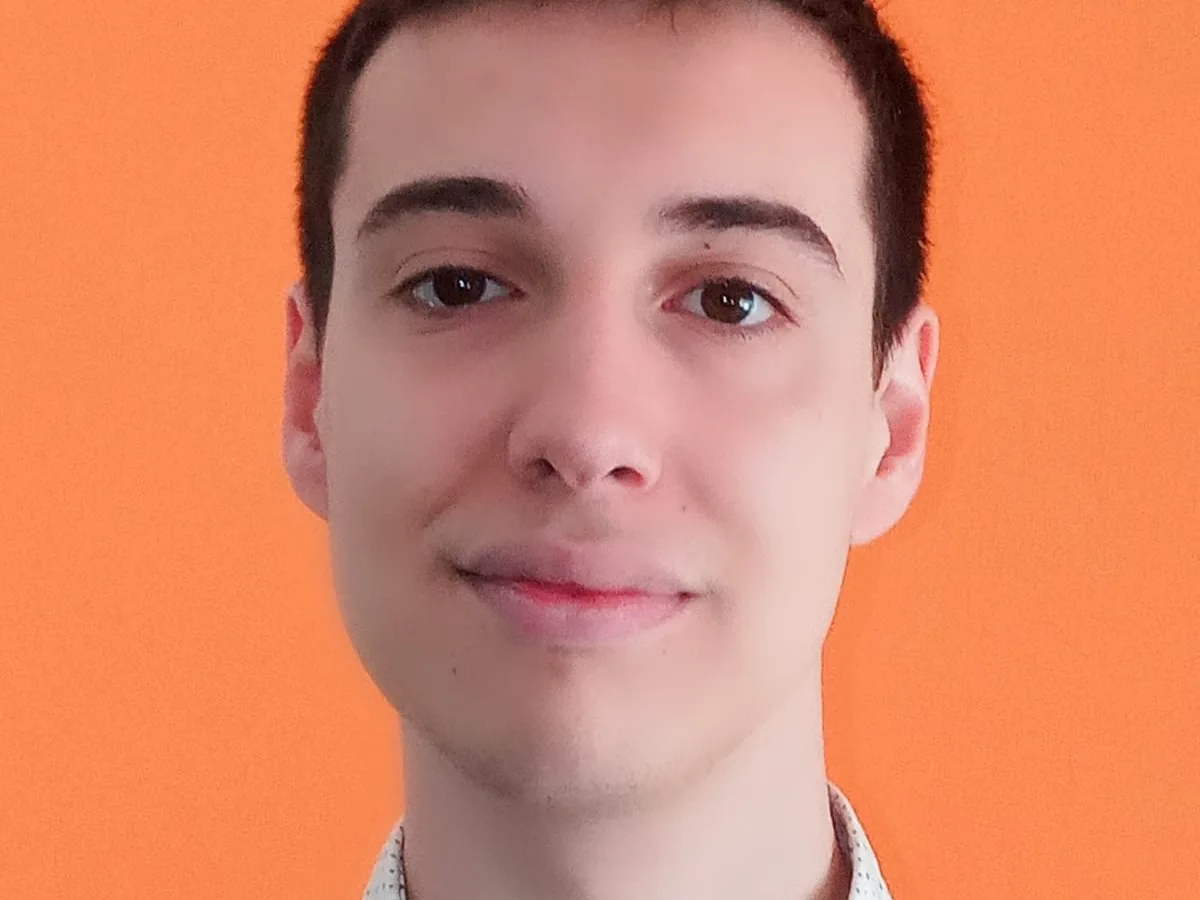
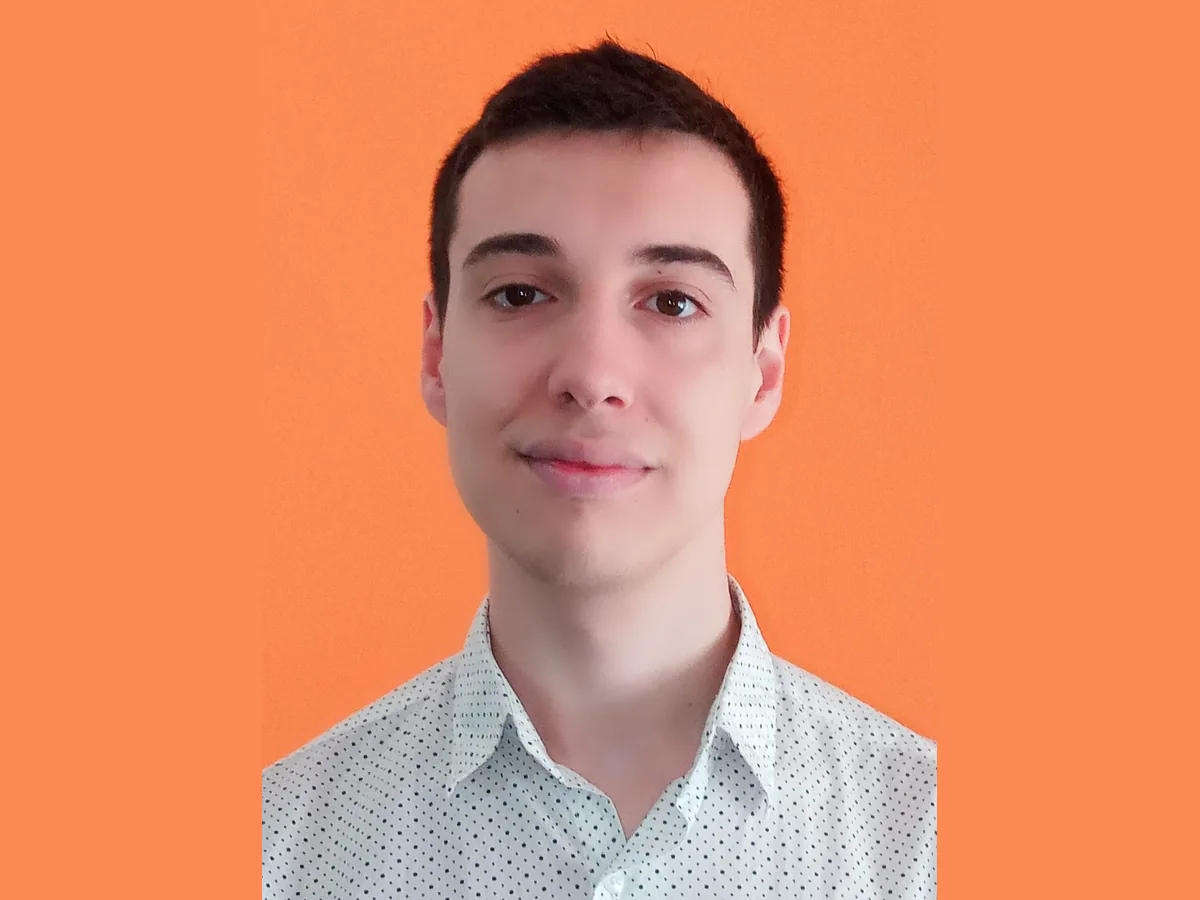
docs: correct phase 2 wide portrait asset

diff --git a/docs/design/phase-2/tests/validate-assets.py b/docs/design/phase-2/tests/validate-assets.py
@@ -38,6 +38,11 @@ def main() -> None:
             assert image.format == "WEBP", f"Image is not WEBP: {name}"
             assert image.size == dimensions, f"Unexpected dimensions for {name}: {image.size}"
             assert not image.getexif(), f"EXIF metadata remains in {name}"
+            if name == "profile-wide.webp":
+                red, green, blue = image.convert("RGB").getpixel((600, 0))
+                assert (
+                    red >= 200 and red > green + 50 and green > blue + 20
+                ), "Wide asset must preserve an orange background above the uncropped portrait"
     for name in EXPECTED_FONTS:
         path = FONTS / name
         assert path.is_file(), f"Missing font or license asset: {path.relative_to(ROOT)}"

diff --git a/docs/prototypes/phase-2/tools/build-assets.py b/docs/prototypes/phase-2/tools/build-assets.py
@@ -15,9 +15,9 @@ def main() -> None:
         portrait = ImageOps.fit(
             image, (900, 1200), Image.Resampling.LANCZOS, centering=(0.5, 0.42)
         )
-        wide = ImageOps.fit(
-            image, (1200, 900), Image.Resampling.LANCZOS, centering=(0.5, 0.34)
-        )
+        wide = Image.new("RGB", (1200, 900), image.getpixel((0, 0)))
+        contained = ImageOps.contain(image, wide.size, Image.Resampling.LANCZOS)
+        wide.paste(contained, ((wide.width - contained.width) // 2, 0))
         portrait.save(OUTPUT / "profile-portrait.webp", "WEBP", quality=82, method=6)
         wide.save(OUTPUT / "profile-wide.webp", "WEBP", quality=82, method=6)
 

diff --git a/docs/prototypes/phase-2/assets/ASSET_MANIFEST.md b/docs/prototypes/phase-2/assets/ASSET_MANIFEST.md
@@ -2,19 +2,19 @@
 
 ## Source and derivation contract
 
-- Approved source: `docs/content/approved-assets/professional-photo.jpg` (`SRC-010`).
+- Approved future-publication source: `docs/content/approved-assets/professional-photo.jpg` (`SRC-010`); it is not publicly served by this repository.
 - Source dimensions and format: 1200 × 1600 JPEG.
[1 lines of base64/hex data omitted]
 - Builder: `docs/prototypes/phase-2/tools/build-assets.py`, using Pillow `ImageOps.fit`, RGB conversion, Lanczos resampling, WebP `quality=82`, and `method=6`.
-- Final portrait centering: `(0.5, 0.42)`; final wide centering: `(0.5, 0.34)`.
+- Final portrait centering: `(0.5, 0.42)`. The 1200 × 900 wide derivative centers a height-contained, uncropped copy of the entire approved portrait on the sampled orange pixel at source coordinate `(0, 0)`; it preserves the hair, shoulders, and collar without fabricating visual content.
 - The derivation creates no new generated visual content and does not alter the approved source.
-- Both derivatives were checked after generation: no EXIF metadata remains. The orange background is preserved, the subject is not stretched, and the face remains recognizable; the portrait retains the complete head-and-shoulders composition. The wider responsive crop prioritizes the approved face composition within its required 4:3 ratio.
+- Both derivatives were checked after generation: no EXIF metadata remains. The orange background is preserved, the subject is not stretched, and the face remains recognizable; the portrait retains the complete head-and-shoulders composition. The wider responsive composition preserves the entire source portrait within its required 4:3 ratio.
 
 ## Accessibility and confidentiality review
 
 - Spanish alt text: `Retrato profesional de Luciano González sobre fondo naranja`.
 - English alt text: `Professional portrait of Luciano González against an orange background`.
-- Review result: the two derivatives originate only from approved public asset `SRC-010`; no new claims, identifiers, confidential employer/client details, or generated imagery were introduced. EXIF metadata was removed. They remain prototype-local assets and are not a public CMS/media publication action.
+- Review result: the two derivatives originate only from approved future-publication asset `SRC-010`; no new claims, identifiers, confidential employer/client details, or generated imagery were introduced. EXIF metadata was removed. They remain prototype-local assets and are not a public CMS/media publication action.
 - Integration follow-up: verify crop harmony and surrounding UI contrast in both themes before future publication, as required by `docs/content/ASSET_INVENTORY.md`.
 
 ## Pinned upstream font sources
@@ -32,7 +32,7 @@
[10 lines of base64/hex data omitted]
